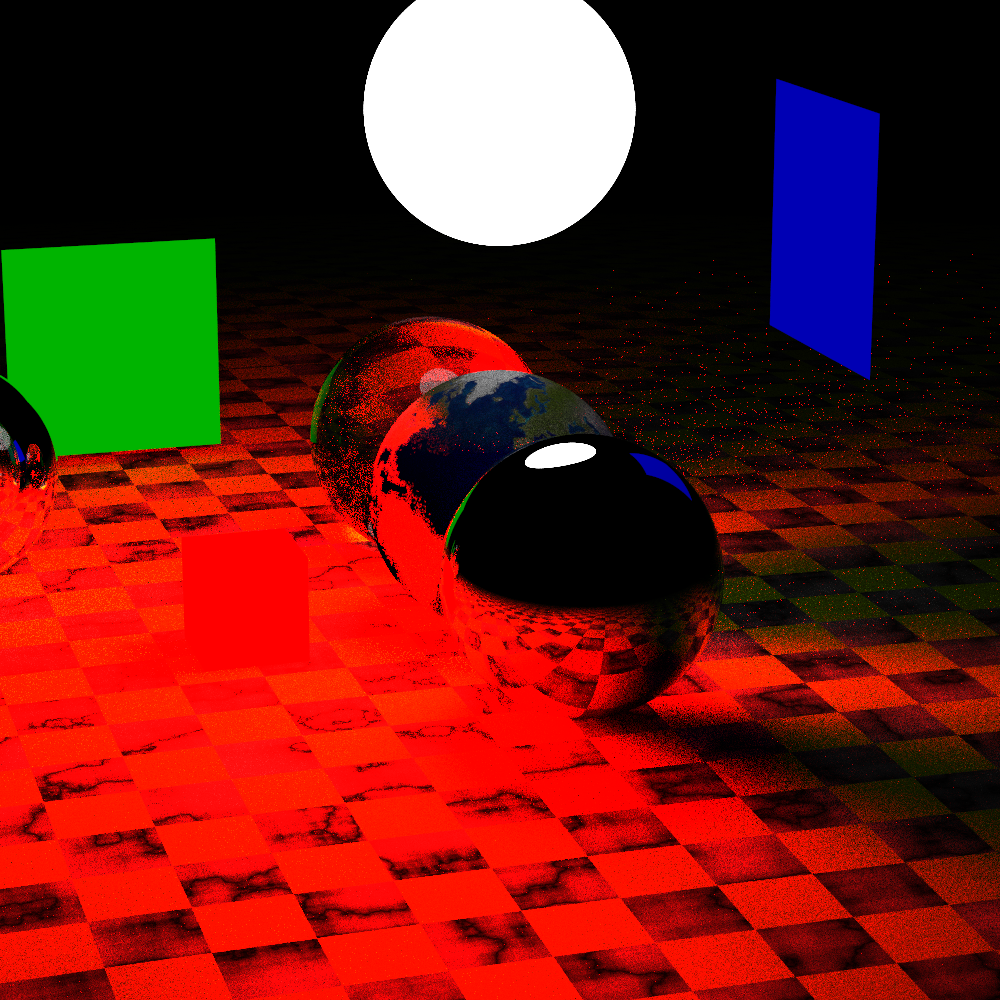
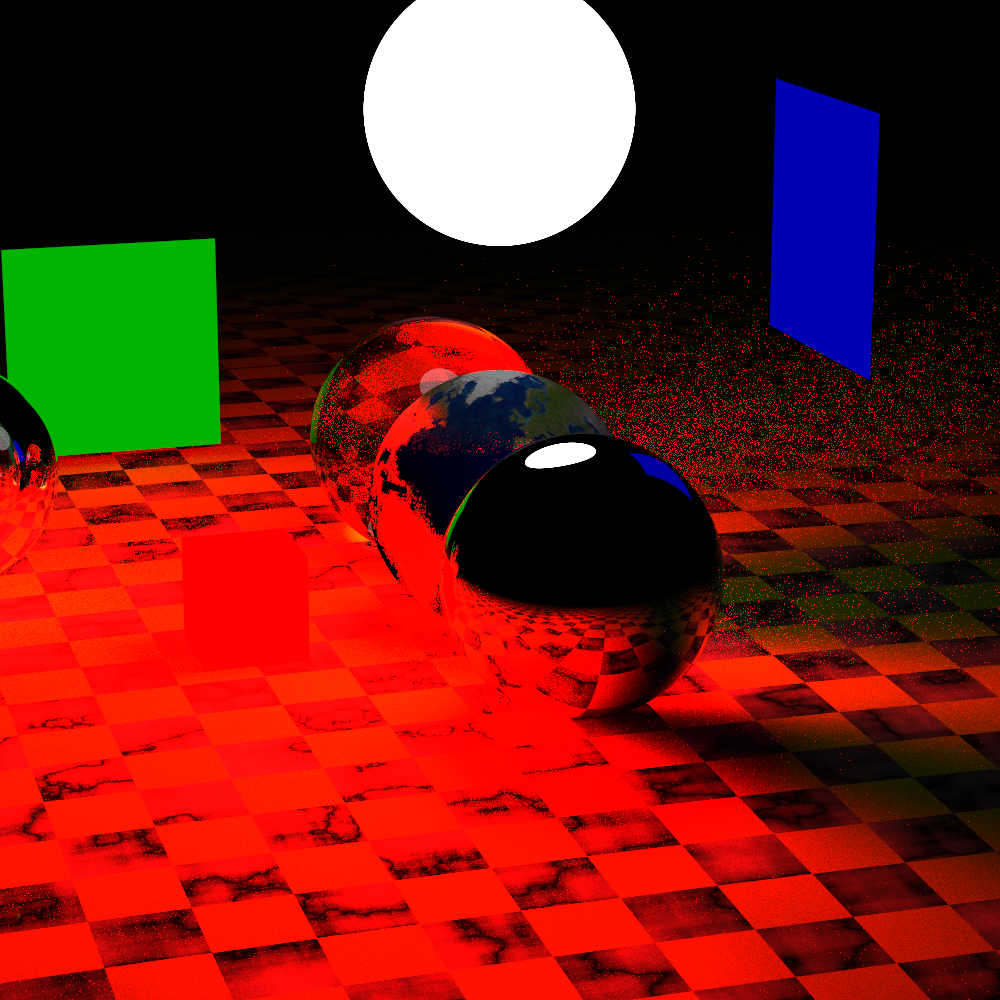
almost correct rotation

diff --git a/cpu_raytracer/src/ray_tracer/hittable.rs b/cpu_raytracer/src/ray_tracer/hittable.rs
@@ -2,7 +2,6 @@ mod constant_medium;
 mod flip_normals;
 mod rect;
 mod render_box;
-mod rotation;
 mod sphere;
 
 use super::{Aabb, Material, Ray};
@@ -13,7 +12,6 @@ pub use constant_medium::ConstantMedium;
 pub use flip_normals::FlipNormals;
 pub use rect::{XYRect, XZRect, YZRect};
 pub use render_box::RenderBox;
-pub use rotation::RotateY;
 pub use sphere::{MovingSphere, Sphere};
 use std::{cell::RefCell, rc::Rc};
 
@@ -43,8 +41,14 @@ impl Transform {
     pub fn identity() -> Self {
         Self::from_matrix(Matrix4::identity())
     }
-    pub fn translation(translation: Vector3<f32>) -> Self {
-        Self::from_matrix(Matrix4::from_translation(-1.0 * translation))
+    pub fn translate(self, translation: Vector3<f32>) -> Self {
+        self * Self::from_matrix(Matrix4::from_translation(-1.0 * translation))
+    }
+    pub fn rotate_x(self, rotation_deg: f32) -> Self {
+        self * Self::from_matrix(cgmath::Matrix4::from_angle_x(cgmath::Deg(rotation_deg)))
+    }
+    pub fn rotate_y(self, rotation_deg: f32) -> Self {
+        self * Self::from_matrix(cgmath::Matrix4::from_angle_y(cgmath::Deg(rotation_deg)))
     }
     fn mul_ray(&self, ray: Ray) -> Ray {
         let direction_world = ray.origin + ray.direction;
@@ -61,6 +65,26 @@ impl Transform {
     }
     fn mul_point3(&self, point: Point3<f32>) -> Point3<f32> {
         Point3::from_homogeneous(self.world_transform * point.to_homogeneous())
+    }
+
+    fn mul_vec3(&self, vec: Vector3<f32>) -> Vector3<f32> {
+        let world_vec = Vector4::new(vec.x, vec.y, vec.z, 1.0);
+        let output = self.mul_vec4(world_vec);
+        Vector3::new(output.x, output.y, output.z)
+    }
+    fn mul_vec4(&self, vec: Vector4<f32>) -> Vector4<f32> {
+        self.world_transform * vec
+    }
+    fn mul_self(&self, rhs: Self) -> Self {
+        Self {
+            world_transform: self.world_transform * rhs.world_transform,
+        }
+    }
+}
+impl std::ops::Mul<Transform> for Transform {
+    type Output = Self;
+    fn mul(self, rhs: Transform) -> Self::Output {
+        (&self).mul_self(rhs)
     }
 }
 impl std::ops::Mul<&Point3<f32>> for &Transform {
@@ -105,6 +129,18 @@ impl std::ops::Mul<Ray> for Transform {
         (&self).mul_ray(rhs)
     }
 }
+impl std::ops::Mul<Vector3<f32>> for Transform {
+    type Output = Vector3<f32>;
+    fn mul(self, rhs: Vector3<f32>) -> Self::Output {
+        (&self).mul_vec3(rhs)
+    }
+}
+impl std::ops::Mul<Vector4<f32>> for Transform {
+    type Output = Vector4<f32>;
+    fn mul(self, rhs: Vector4<f32>) -> Self::Output {
+        (&self).mul_vec4(rhs)
+    }
+}
 #[derive(Clone)]
 pub struct Object {
     pub shape: Rc<dyn Hittable>,
@@ -117,21 +153,33 @@ impl Object {
 }
 impl Hittable for Object {
     fn hit(&self, ray: &Ray, t_min: f32, t_max: f32) -> Option<HitRecord> {
-        let ray = &self.transform * ray;
-        if let Some(hit) = self.shape.hit(&ray, t_min, t_max) {
+        let shape_ray = &self.transform * ray;
+        if let Some(hit) = self.shape.hit(&shape_ray, t_min, t_max) {
             let inv = self.transform.get_inverse();
-            let world_position = &inv * &hit.position;
+            let world_position = inv * hit.position;
 
             let hit_normal_end_world = inv * (hit.position + hit.normal);
-            let normal_world = hit_normal_end_world - world_position;
-            Some(HitRecord {
+            let normal_world = (world_position - hit_normal_end_world).normalize();
+            let normal_world = inv * Vector4::new(hit.normal.x, hit.normal.y, hit.normal.z, 0.0);
+            let normal_world = Vector3::new(normal_world.x, normal_world.y, normal_world.z);
+            let normal_world = hit.normal;
+            let h = Some(HitRecord {
                 position: world_position,
                 normal: normal_world,
                 t: hit.t,
                 front_face: hit.front_face,
                 uv: hit.uv,
-                material: hit.material,
-            })
+                material: hit.material.clone(),
+            });
+            let h2 = Some(HitRecord::new(
+                &ray,
+                world_position,
+                normal_world,
+                hit.t,
+                hit.uv,
+                hit.material,
+            ));
+            h
         } else {
             None
         }

diff --git a/cpu_raytracer/src/ray_tracer/world/cornell_smoke.rs b/cpu_raytracer/src/ray_tracer/world/cornell_smoke.rs
@@ -1,6 +1,6 @@
 use super::{
     Camera, ConstantColor, ConstantMedium, DiffuseLight, FlipNormals, Isotropic, Lambertian,
-    Object, RenderBox, RotateY, SolidColor, Sphere, Transform, WorldInfo, XYRect, XZRect, YZRect,
+    Object, RenderBox, SolidColor, Sphere, Transform, WorldInfo, XYRect, XZRect, YZRect,
     IMAGE_HEIGHT, IMAGE_WIDTH,
 };
 use crate::prelude::*;
@@ -44,11 +44,12 @@ pub fn cornell_smoke() -> WorldInfo {
                 z0: 127.0,
                 z1: 423.0,
                 k: 554.0,
-                material: light,
+                material: light.clone(),
             }),
         }),
         Transform::identity(),
     );
+
     WorldInfo {
         objects: vec![
             Object::new(
@@ -121,7 +122,7 @@ pub fn cornell_smoke() -> WorldInfo {
                     })),
                     0.01,
                 )),
-                Transform::translation(Vector3::new(265.0, 0.0, 295.0)),
+                Transform::identity().translate(Vector3::new(265.0, 0.0, 295.0)),
             ),
             Object::new(
                 Rc::new(ConstantMedium::new(
@@ -137,18 +138,17 @@ pub fn cornell_smoke() -> WorldInfo {
                     })),
                     0.01,
                 )),
-                Transform::translation(Vector3::new(265.0, 500.0, 295.0)),
+                Transform::identity().translate(Vector3::new(265.0, 500.0, 295.0)),
             ),
             Object::new(
-                Rc::new(RotateY::new(
-                    RenderBox::new(
-                        Point3::new(0.0, 0.0, 0.0),
-                        Point3::new(165.0, 165.0, 165.0),
-                        white,
-                    ),
-                    -18.0,
+                Rc::new(RenderBox::new(
+                    Point3::new(0.0, 0.0, 0.0),
+                    Point3::new(165.0, 165.0, 165.0),
+                    white,
                 )),
-                Transform::translation(Vector3::new(130.0, 0.0, 65.0)),
+                Transform::identity()
+                    .rotate_y(-18.0)
+                    .translate(Vector3::new(130.0, 0.0, 65.0)),
             ),
         ],
         lights: vec![top_light],

diff --git a/cpu_raytracer/src/ray_tracer/world/demo/cube_field.rs b/cpu_raytracer/src/ray_tracer/world/demo/cube_field.rs
@@ -1,0 +1,43 @@
+use super::{new_demo, Lambertian, Object, RenderBox, SolidColor, Transform, WorldInfo};
+use crate::prelude::*;
+use cgmath::{Point3, Vector3};
+use std::{cell::RefCell, rc::Rc};
+pub fn build_field() -> WorldInfo {
+    struct CubeInfo {
+        x: f32,
+        z: f32,
+        rotate_y: f32,
+    }
+    let cube_arr = [
+        CubeInfo {
+            x: -0.5,
+            z: -0.6,
+            rotate_y: 20.0,
+        },
+        CubeInfo {
+            x: 0.6,
+            z: 0.6,
+            rotate_y: -2.0,
+        },
+    ];
+    let objects = cube_arr
+        .iter()
+        .map(|c| {
+            Object::new(
+                Rc::new(RenderBox::new(
+                    Point3::new(-0.5, -0.5, -0.5),
+                    Point3::new(0.5, 0.5, 0.5),
+                    Rc::new(RefCell::new(Lambertian {
+                        albedo: Box::new(SolidColor {
+                            color: RgbColor::new(0.5, 0.1, 0.0),
+                        }),
+                    })),
+                )),
+                Transform::identity()
+                    .translate(Vector3::new(c.x, 0.5, c.z))
+                    .rotate_y(c.rotate_y),
+            )
+        })
+        .collect();
+    new_demo(objects)
+}

diff --git a/cpu_raytracer/src/ray_tracer/world/demo.rs b/cpu_raytracer/src/ray_tracer/world/demo.rs
@@ -1,15 +1,16 @@
+pub mod cube_field;
 pub mod lambertian;
 pub mod metalic_demo;
 
 use super::{
-    Camera, DiffuseLight, Lambertian, Metal, Object, Sky, SolidColor, Sphere, Transform, WorldInfo,
-    XZRect, IMAGE_HEIGHT, IMAGE_WIDTH,
+    Camera, DiffuseLight, Lambertian, Metal, Object, RenderBox, Sky, SolidColor, Sphere, Transform,
+    WorldInfo, XZRect, IMAGE_HEIGHT, IMAGE_WIDTH,
 };
 use crate::prelude::*;
 use cgmath::{prelude::*, Point3, Vector3};
 use std::{cell::RefCell, rc::Rc};
 
-pub fn new_demo(special_item: Object) -> WorldInfo {
+pub fn new_demo(mut special_item: Vec<Object>) -> WorldInfo {
     let look_at = Point3::new(0.0f32, 1.0, 0.0);
     let origin = Point3::new(10.0f32, 10.0, 2.0);
     let focus_distance = {
@@ -44,8 +45,10 @@ pub fn new_demo(special_item: Object) -> WorldInfo {
         }),
         Transform::identity(),
     );
+    let mut objects = vec![floor, light.clone()];
+    objects.append(&mut special_item);
     WorldInfo {
-        objects: vec![floor, light.clone(), special_item],
+        objects,
         lights: vec![light],
         background: Box::new(Sky::default()),
         camera: Camera::new(

diff --git a/cpu_raytracer/src/ray_tracer/world/demo/metalic_demo.rs b/cpu_raytracer/src/ray_tracer/world/demo/metalic_demo.rs
@@ -10,7 +10,7 @@ pub fn metallic_rough() -> WorldInfo {
     metalic_demo_fuzz(0.8)
 }
 pub fn metalic_demo_fuzz(fuzz: f32) -> WorldInfo {
-    return new_demo(Object::new(
+    return new_demo(vec![Object::new(
         Rc::new(Sphere {
             radius: 1.0,
             origin: Point3::new(0.0, 1.0, 0.0),
@@ -22,5 +22,5 @@ pub fn metalic_demo_fuzz(fuzz: f32) -> WorldInfo {
             })),
         }),
         Transform::identity(),
-    ));
+    )]);
 }

diff --git a/cpu_raytracer/src/ray_tracer/world.rs b/cpu_raytracer/src/ray_tracer/world.rs
@@ -274,6 +274,10 @@ pub fn get_scenarios() -> HashMap<String, Box<dyn ScenarioCtor>> {
             name: "Light Demonstration".to_string(),
             f: light_demo::light_demo,
         }),
+        Box::new(ScenarioFn {
+            name: "Cube Field".to_string(),
+            f: demo::cube_field::build_field,
+        }),
     ];
     let mut map: HashMap<String, Box<dyn ScenarioCtor>> = scenes
         .drain(..)

diff --git a/cpu_raytracer/src/ray_tracer/world/demo/lambertian.rs b/cpu_raytracer/src/ray_tracer/world/demo/lambertian.rs
@@ -4,7 +4,7 @@ use base_lib::RgbColor;
 use cgmath::Point3;
 use std::{cell::RefCell, rc::Rc};
 pub fn demo() -> WorldInfo {
-    new_demo(Object::new(
+    new_demo(vec![Object::new(
         Rc::new(Sphere {
             radius: 1.0,
             origin: Point3::new(0.0, 1.0, 0.0),
@@ -15,5 +15,5 @@ pub fn demo() -> WorldInfo {
             })),
         }),
         Transform::identity(),
-    ))
+    )])
 }

diff --git a/cpu_raytracer/src/ray_tracer.rs b/cpu_raytracer/src/ray_tracer.rs
@@ -22,7 +22,7 @@ use cgmath::{InnerSpace, Vector3};
 #[allow(unused_imports)]
 use hittable::{
     ConstantMedium, FlipNormals, HitRecord, Hittable, MovingSphere, Object, RayAreaInfo, RenderBox,
-    RotateY, Sphere, Transform, XYRect, XZRect, YZRect,
+    Sphere, Transform, XYRect, XZRect, YZRect,
 };
 #[allow(unused_imports)]
 use material::{Dielectric, DiffuseLight, Isotropic, Lambertian, Material, Metal};
